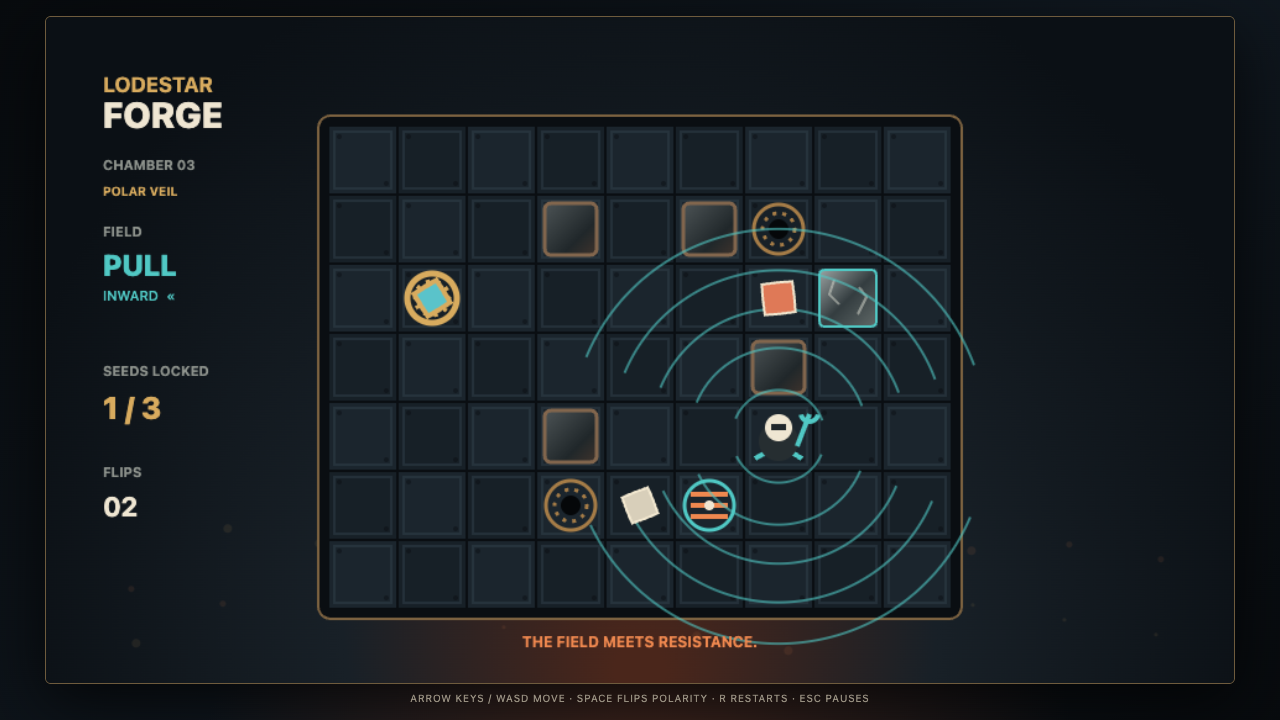
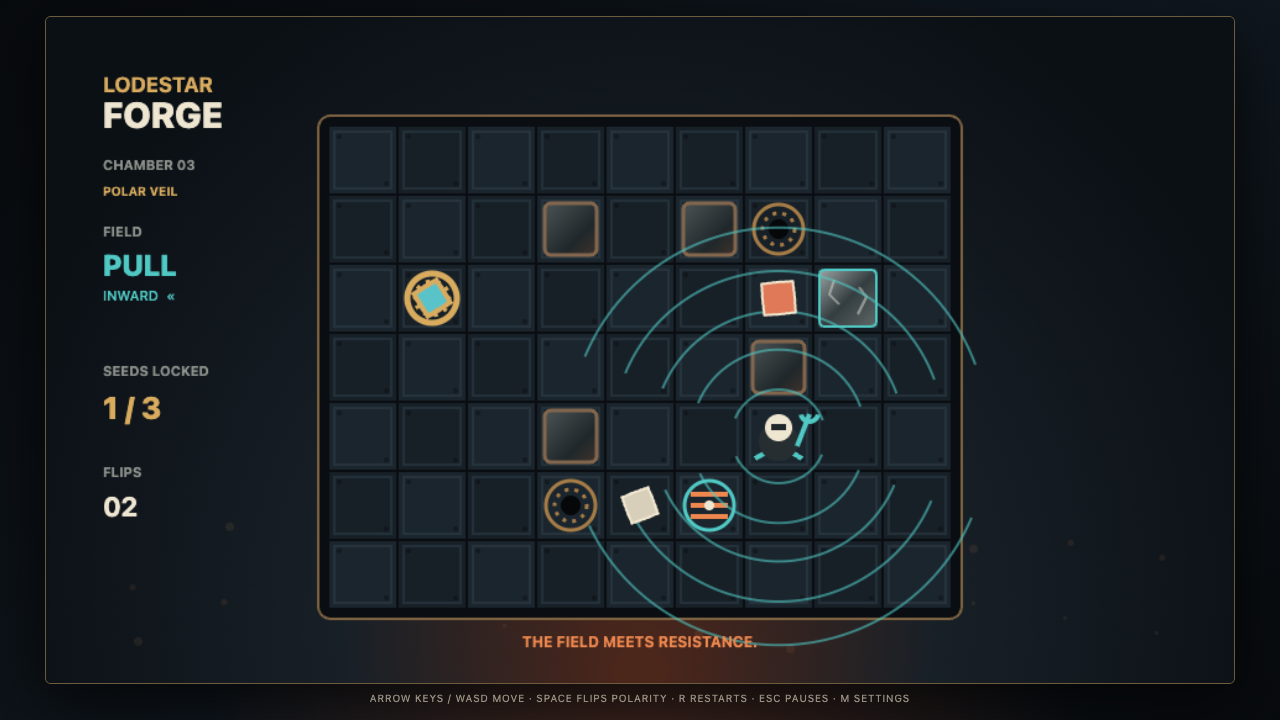
feat(ver12): add polarity-bound fourth chamber
Agent-Loop: codex
Agent-Script: run-codex-loop.sh

diff --git a/ver12/game/src/model.js b/ver12/game/src/model.js
@@ -78,6 +78,27 @@ export const LEVELS = Object.freeze([freezeLevel({
   poles: [
     { x: 5, y: 5, blocksAxis: "horizontal" }
   ]
+}), freezeLevel({
+  name: "Cold Lodestone",
+  lesson: "Marked seeds answer only the matching field.",
+  player: { x: 4, y: 3 },
+  shards: [
+    { id: "cobalt", x: 2, y: 2, respondsTo: "pull" },
+    { id: "ember", x: 6, y: 2 },
+    { id: "pearl", x: 6, y: 4 }
+  ],
+  sockets: [
+    { x: 3, y: 3 },
+    { x: 7, y: 2 },
+    { x: 7, y: 4 }
+  ],
+  walls: [
+    { x: 3, y: 1 }, { x: 5, y: 1 },
+    { x: 2, y: 3 }, { x: 6, y: 3 },
+    { x: 2, y: 5 }, { x: 6, y: 5 }
+  ],
+  blocks: [],
+  poles: []
 })]);
 
 export const LEVEL = LEVELS[0];
@@ -164,10 +185,11 @@ export function flipPolarity(state) {
   const polarity = state.polarity === "pull" ? "push" : "pull";
   const level = levelFor(state);
   const loose = state.shards.filter((shard) => !shard.docked);
+  const responsive = loose.filter((shard) => !shard.respondsTo || shard.respondsTo === polarity);
   const occupied = new Set(state.shards.filter((shard) => shard.docked).map(key));
   const proposals = new Map();
 
-  for (const shard of loose) {
+  for (const shard of responsive) {
     const target = desiredStep(shard, state.player, polarity);
     proposals.set(shard.id, target);
   }
@@ -177,8 +199,8 @@ export function flipPolarity(state) {
     targetCounts.set(key(target), (targetCounts.get(key(target)) ?? 0) + 1);
   }
 
-  const staying = new Set();
-  for (const shard of loose) {
+  const staying = new Set(loose.filter((shard) => !responsive.includes(shard)).map((shard) => shard.id));
+  for (const shard of responsive) {
     const target = proposals.get(shard.id);
     if (isWall(target, level) || isPoleBlocked(shard, target, level) || same(target, state.player) || occupied.has(key(target)) || targetCounts.get(key(target)) > 1) staying.add(shard.id);
   }
@@ -207,13 +229,14 @@ export function flipPolarity(state) {
   });
   const allDocked = shards.every((shard) => shard.docked);
   const moved = loose.length - staying.size;
+  const resistedByPolarity = responsive.length < loose.length;
   return {
     ...state,
     phase: allDocked ? "won" : "playing",
     polarity,
     shards,
     pulses: state.pulses + 1,
-    lastEvent: allDocked ? "The forge is whole." : dockedNow ? `${dockedNow} seed locked.` : moved ? "The seeds answer." : "The field meets resistance.",
+    lastEvent: allDocked ? "The forge is whole." : dockedNow ? `${dockedNow} seed locked.` : moved ? "The seeds answer." : resistedByPolarity ? `The marked seed ignores ${polarity.toUpperCase()}.` : "The field meets resistance.",
     pulseFrom: { ...state.player }
   };
 }
@@ -240,5 +263,7 @@ export function statusText(state) {
   const chamber = state.levelIndex + 1;
   if (state.phase === "paused") return `Paused in chamber ${chamber}. ${docked} of 3 seeds locked. Press Escape to resume.`;
   if (state.phase === "won") return `Chamber ${chamber} complete. 3 of 3 seeds locked in ${state.pulses} polarity flips. Press Enter to ${state.levelIndex < LEVELS.length - 1 ? "continue" : "replay"}.`;
-  return `Chamber ${chamber} active. ${state.polarity} polarity. ${docked} of 3 seeds locked. Arrow keys move. Space flips polarity. R restarts. Escape pauses.`;
+  const marked = state.shards.filter((shard) => shard.respondsTo && !shard.docked);
+  const markedText = marked.length ? ` ${marked.length} loose seed answers only ${marked[0].respondsTo}.` : "";
+  return `Chamber ${chamber} active. ${state.polarity} polarity. ${docked} of 3 seeds locked.${markedText} Arrow keys move. Space flips polarity. R restarts. Escape pauses.`;
 }

diff --git a/ver12/game/src/main.js b/ver12/game/src/main.js
@@ -213,6 +213,19 @@ function drawShard(shard, time) {
   ctx.closePath();
   ctx.fill();
   ctx.stroke();
+  if (shard.respondsTo) {
+    ctx.rotate(-(shard.x * 0.4 + shard.y * 0.7) - (shard.docked ? 0 : Math.sin(time / 650) * 0.08));
+    ctx.strokeStyle = COLORS.ink;
+    ctx.lineWidth = 4;
+    ctx.beginPath();
+    ctx.moveTo(-9, -4);
+    ctx.lineTo(-3, 0);
+    ctx.lineTo(-9, 4);
+    ctx.moveTo(9, -4);
+    ctx.lineTo(3, 0);
+    ctx.lineTo(9, 4);
+    ctx.stroke();
+  }
   ctx.restore();
 }
 
@@ -278,7 +291,7 @@ function overlay(title, body, prompt, color = COLORS.brass) {
   ctx.fillStyle = "#11181eed";
   ctx.fill();
   ctx.stroke();
-  text(title, 480, 196, 35, COLORS.pale, "center", 800);
+  text(title, 480, 196, title.length > 22 ? 29 : 35, COLORS.pale, "center", 800);
   text(body, 480, 252, 15, "#b9b4a7", "center", 500);
   text(state.phase === "title" ? "MOVE TO AIM" : `POLARITY FLIPS  ${state.pulses}`, 480, 295, 12, color, "center", 700);
   text(state.phase === "title" ? "SPACE TO FLIP THE WHOLE FIELD" : "ALL THREE SEEDS ARE LOCKED", 480, 319, 12, color, "center", 700);
@@ -333,11 +346,12 @@ function render(time = 0) {
   if (state.phase === "paused") overlay("FIELD SUSPENDED", "The chamber is holding its shape.", "ESC TO RESUME", COLORS.pull);
   if (state.phase === "won") {
     const final = state.levelIndex === LEVELS.length - 1;
-    const titles = ["THE FIRST MOLD HOLDS", "THE IRON BRAKE HOLDS", "THE POLAR VEIL HOLDS"];
+    const titles = ["THE FIRST MOLD HOLDS", "THE IRON BRAKE HOLDS", "THE POLAR VEIL HOLDS", "THE COLD LODESTONE HOLDS"];
     const bodies = [
       "Three wandering metals, one finished constellation.",
       "A fixed mass gave the field a rhythm.",
-      "Iron and pole held two beats for the final strike."
+      "Iron and pole held two beats for the final strike.",
+      "One cold seed woke only when the field drew inward."
     ];
     overlay(titles[state.levelIndex], bodies[state.levelIndex], final ? "PRESS ENTER TO REFORGE" : `PRESS ENTER FOR CHAMBER ${String(state.levelIndex + 2).padStart(2, "0")}`);
   }

diff --git a/ver12/game/tests/model.test.js b/ver12/game/tests/model.test.js
@@ -116,6 +116,34 @@ test("known polar veil solution completes the third chamber", () => {
   assert.equal(game.pulses, 3);
   assert.equal(game.shards.filter((shard) => shard.docked).length, 3);
   assert.match(statusText(game), /Chamber 3 complete/);
+  assert.match(statusText(game), /continue/);
+});
+
+test("marked seed answers only its matching polarity", () => {
+  let game = startGame(createGame(3));
+  game = flipPolarity(game);
+  assert.deepEqual(game.shards.find((shard) => shard.id === "cobalt"), {
+    id: "cobalt", x: 2, y: 2, respondsTo: "pull", docked: false
+  });
+  assert.equal(game.shards.find((shard) => shard.id === "ember").docked, true);
+  assert.equal(game.shards.find((shard) => shard.id === "pearl").docked, true);
+
+  game = reduce(game, "down");
+  game = reduce(game, "flip");
+  assert.deepEqual(game.shards.find((shard) => shard.id === "cobalt"), {
+    id: "cobalt", x: 3, y: 2, respondsTo: "pull", docked: false
+  });
+  game = reduce(game, "flip");
+  assert.match(game.lastEvent, /ignores PUSH/);
+});
+
+test("known cold lodestone solution completes the fourth chamber", () => {
+  let game = startGame(createGame(3));
+  for (const action of ["flip", "down", "flip", "flip", "left", "flip"]) game = reduce(game, action);
+  assert.equal(game.phase, "won");
+  assert.equal(game.pulses, 4);
+  assert.equal(game.shards.filter((shard) => shard.docked).length, 3);
+  assert.match(statusText(game), /Chamber 4 complete/);
   assert.match(statusText(game), /replay/);
 });
 
@@ -136,7 +164,7 @@ test("preferences round-trip and clamp values", () => {
     setItem: (key, value) => values.set(key, value)
   };
   const saved = savePreferences(storage, { unlockedLevel: 99, volume: 0.34, reducedMotion: true }, LEVELS.length);
-  assert.deepEqual(saved, { unlockedLevel: 2, volume: 0.3, reducedMotion: true });
+  assert.deepEqual(saved, { unlockedLevel: 3, volume: 0.3, reducedMotion: true });
   assert.deepEqual(loadPreferences(storage, LEVELS.length), saved);
 });
 

diff --git a/ver12/game/e2e/lodestar-forge.spec.js b/ver12/game/e2e/lodestar-forge.spec.js
@@ -91,6 +91,31 @@ test("axial pole holds one seed and the third chamber is completable", async ({ 
   await page.screenshot({ path: evidence("m2-three-chambers-won.png") });
 });
 
+test("pull-bound seed waits through push and the fourth chamber is completable", async ({ page }) => {
+  await page.goto("/");
+  const canvas = page.locator("canvas");
+  await page.keyboard.press("Enter");
+  for (const key of [
+    "Space", "ArrowLeft", "ArrowLeft", "ArrowDown", "ArrowDown", "Space", "Enter",
+    "ArrowRight", "Space", "ArrowRight", "Space", "Space", "Enter",
+    "ArrowRight", "Space", "ArrowDown", "ArrowRight", "Space", "Space", "Enter"
+  ]) await page.keyboard.press(key);
+  await expect(canvas).toHaveAttribute("data-chamber", "4");
+
+  await page.keyboard.press("Space");
+  await expect(canvas).toHaveAttribute("data-docked", "2");
+  await expect(canvas).toHaveAttribute("aria-label", /1 loose seed answers only pull/);
+  await page.screenshot({ path: evidence("m3-cold-lodestone.png") });
+
+  for (const key of ["ArrowDown", "Space", "Space", "ArrowLeft", "Space"]) {
+    await page.keyboard.press(key);
+  }
+  await expect(canvas).toHaveAttribute("data-phase", "won");
+  await expect(canvas).toHaveAttribute("data-docked", "3");
+  await expect(canvas).toHaveAttribute("aria-label", /Chamber 4 complete.*4 polarity flips/);
+  await page.screenshot({ path: evidence("m3-four-chambers-won.png") });
+});
+
 test("settings persist and corrupt saves recover safely", async ({ page }) => {
   await page.goto("/");
   const canvas = page.locator("canvas");

diff --git a/ver12/docs/acceptance-matrix.md b/ver12/docs/acceptance-matrix.md
@@ -6,15 +6,16 @@
 | --- | --- | --- | --- | --- | --- |
 | CORE-01 | 移動、極性反転、3種同時操作、衝突、収容 | M1 | `src/model.js`、`m1-first-field.png` | `npm run verify` | 合格 |
 | CORE-02 | 失敗後の室再挑戦とポーズ復帰 | M1 | `reduce`、E2E test 1 | `npm run verify` | 合格 |
-| PROG-01 | 複数室のデータ定義と通常操作による進行 | M2 | `LEVELS`、E2E tests 2–4、`m2-three-chambers-won.png` | `npm run verify` | 3室合格 |
+| PROG-01 | 複数室のデータ定義と通常操作による進行 | M2 | `LEVELS`、E2E tests 2–5、`m3-four-chambers-won.png` | `npm run verify` | 4室合格 |
 | MECH-02 | 固定鉄塊で不要な種だけを止める | M2 | `LEVELS[1].blocks`、`m2-iron-brake.png` | `npm run test -- --test-name-pattern='iron'` | 合格 |
 | MECH-03 | 軸極が指定軸の種だけを止め、鍛冶師を通す | M2 | `LEVELS[2].poles`、`m2-polar-veil.png` | `npm run test -- --test-name-pattern='polar veil'` | 合格 |
-| PROD-01 | 3室、段階導入、設定、進行保存 | M2 | `LEVELS`、`preferences.js`、E2E tests 2–6、`m2-settings.png` | `npm run verify` | 合格 |
-| CONT-01 | 6室、4段階以上の規則発展、最終炉と終演 | M3 | 未実装 | 通しE2Eを追加予定 | 未達 |
+| MECH-04 | 極性種が対応する磁場だけに反応する | M3 | `LEVELS[3].shards[].respondsTo`、`m3-cold-lodestone.png` | `npm run test -- --test-name-pattern='marked seed|cold lodestone'` | 合格 |
+| PROD-01 | 3室、段階導入、設定、進行保存 | M2 | `LEVELS`、`preferences.js`、E2E tests 2–4・6–7、`m2-settings.png` | `npm run verify` | 合格 |
+| CONT-01 | 6室、4段階以上の規則発展、最終炉と終演 | M3 | 4室と3段階の規則発展、E2E test 5 | 通しE2Eを追加予定 | 一部合格 |
 | DEPTH-01 | 複数の有効手順、巻き戻し、再挑戦価値 | M4 | 未実装 | 方針別自動通しを追加予定 | 未達 |
 | ART-01 | 全室の背景、種、UI、磁場、効果音が完成方針で統一 | M4 | M1–M2 Canvas描画と合成音 | 全主要画面目視・音量監査予定 | 一部合格 |
 | ACCESS-01 | キーボード、動き軽減、音量、動的名称、2 viewport | M2–M4 | キーボード設定UI、静止描画、音量係数、動的名称、`m2-settings.png`。2 viewportはM4 | `npm run verify` | 一部合格 |
-| QA-01 | 単体、統合、通し、性能、保存破損、配布物監査 | M4–M5 | 単体13/13、E2E 6/6、保存破損復帰、build合格 | `npm run verify`、性能・配布物はM4予定 | 一部合格 |
+| QA-01 | 単体、統合、通し、性能、保存破損、配布物監査 | M4–M5 | 単体15/15、E2E 7/7、保存破損復帰、build合格 | `npm run verify`、性能・配布物はM4予定 | 一部合格 |
 | RELEASE-01 | 配布物hash、公開URL、旧版保持、rollback | M5 | 未実施 | 公開候補で記録予定 | 未達 |
 | CRIT-01 | 2回以上の独立批評と改善 | M5 | 未実施 | baseline・非退行比較予定 | 未達 |
 | RETRO-01 | 基準比較、M6振り返り、ルート方針評価 | M6 | 未実施 | `05-major-retrospective.md` | 未達 |

diff --git a/ver12/docs/status.md b/ver12/docs/status.md
@@ -5,7 +5,7 @@
 ## 現在状態
 
 - 現在版: v12.0 (`ver12/`)
-- 段階: M0〜M2完了、M3着手前。3室と製品基盤を通して検証済み
+- 段階: M0〜M2完了、M3進行中。4/6室と製品基盤を通して検証済み
 - 過去版変更: v1〜v11を保持
 
 ## 完成条件
@@ -33,13 +33,16 @@
 - `M`でいつでも開ける設定画面を追加し、音量を0〜100%で変更でき、動き軽減時は火花・脈動・磁場フラッシュを静止させるようにした。設定状態は動的accessible nameにも反映する。
 - localStorageへ音量、動き軽減、到達済みの最も先の室を保存し、再読込時はその室のタイトルから再開する。JSON破損、型不正、範囲外、storage例外は安全な既定値へ戻す。
 - 単体13/13、構文検査、production build、Chrome E2E 6/6に合格した。`m2-settings.png`を目視し、設定値、選択行、操作案内に切れ・重なり・判別不能がないことを確認した。M2を完了する。
+- 第4室「COLD LODESTONE」に、`PULL`だけに反応し`PUSH`では静止する極性種を追加した。反応しない種も同時衝突解決では静止障害として扱う。
+- 最初のPUSHで通常種2個を収容し、PULLで極性種を進め、反応しないPUSHを立ち位置変更の休拍にして次のPULLで収容する4反転解を実装した。
+- 単体15/15、構文検査、production build、Chrome E2E 7/7に合格した。`m3-cold-lodestone.png`と`m3-four-chambers-won.png`を1280×720で比較目視し、内向き印、磁場、収容数、完成見出しに切れ・重なり・判別不能がないことを確認した。
 
 ## 未解決課題
 
 - 第1室は導入として2反転で解けるため、単体での再訪性はまだ低い。
 - 手戻しは未実装。
-- M3の極性を持つ種、第4〜第6室、最終炉、終演は未実装。
+- PUSH限定種、既存障害物との組み合わせ、第5〜第6室、最終炉、終演は未実装。
 
 ## 次の最優先作業
 
-第4室を設計・実装し、PULLまたはPUSHの一方にだけ反応する極性種を単独導入する。既存3室の規則と保存を非退行条件にする。
+第5室を設計・実装し、PULL限定種と既存の鉄塊・軸極を組み合わせる。単独導入済みの第4室より複数種の干渉を強め、既存4室と保存を非退行条件にする。

diff --git a/ver12/README.md b/ver12/README.md
@@ -7,8 +7,8 @@
 - M0 白紙企画比較・独立性確認: 完了
 - M1 中核縦切り: 完了。1室、移動、磁極反転、3種、受け口、再挑戦を実装・検証済み
 - M2 製品基盤: 完了。3室、段階導入、音量・動き軽減設定、到達室保存、破損保存復帰を実装済み
-- M3 本編制作: 次の作業は極性を持つ種を導入する第4室
-- 単体13/13、構文検査、production build、Chrome E2E 6/6、依存監査に合格
+- M3 本編制作: 4/6室。第4室でPULLだけに反応する極性種を導入済み
+- 単体15/15、構文検査、production build、Chrome E2E 7/7、依存監査に合格
 
 ## 起動
 
@@ -18,7 +18,7 @@ npm install
 npm run dev
 ```
 
-Enterで開始する。矢印キーまたはWASDで鍛冶師を移動し、Spaceで磁極を反転する。青い`PULL`では金属種が鍛冶師へ、橙の`PUSH`では鍛冶師から離れる方向へ一枡進む。三つを金色の受け口へ収めれば次の室へ進む。第2室の銀色の固定鉄塊は鍛冶師と種を止める。第3室の縞極は示された軸から入る種だけを止め、鍛冶師は通れる。Rで現在の室をやり直し、Escapeでポーズする。
+Enterで開始する。矢印キーまたはWASDで鍛冶師を移動し、Spaceで磁極を反転する。青い`PULL`では金属種が鍛冶師へ、橙の`PUSH`では鍛冶師から離れる方向へ一枡進む。三つを金色の受け口へ収めれば次の室へ進む。第2室の銀色の固定鉄塊は鍛冶師と種を止める。第3室の縞極は示された軸から入る種だけを止め、鍛冶師は通れる。第4室の内向き印を持つ種はPULLだけに反応する。Rで現在の室をやり直し、Escapeでポーズする。
 
 `M`で設定を開き、上下で音量／動き軽減を選び、左右で変更する。設定と到達済みの最も先の室は自動保存される。`npm run verify`で単体テスト、構文検査、production build、Chrome E2Eをまとめて実行する。
 

diff --git a/ver12/docs/log.md b/ver12/docs/log.md
@@ -54,3 +54,12 @@
 - `npm run verify`相当で単体13/13、構文検査、production build、Chrome E2E 6/6に合格した。sandbox内の初回E2Eはlocalhost bindの`EPERM`で起動できなかったため、許可済みのローカルサーバー実行で再検証した。
 - `m2-settings.png`を1280×720で目視し、音量、動き軽減、選択行、操作案内に切れ・重なり・判別不能がないことを確認した。
 - M2を完了する。次は第4室でPULLまたはPUSHの一方にだけ反応する極性種を単独導入し、M3の規則発展を始める。
+
+## 2026-11-06 — M3 第4室「COLD LODESTONE」
+
+- 実行元: Codex / `run-codex-loop.sh` / run 4 / 開始 `2026-11-06T20:49:19+0900`。
+- `PULL`だけに反応する極性種をモデル、室データ、Canvas描画、動的accessible nameへ追加した。内向きシェブロンを色に依存しない識別印とし、反応しない磁場では静止障害として同時衝突解決へ含める。
+- 第4室は最初のPUSHで通常種2個だけを収容し、PULLで極性種を進め、次のPUSHを立ち位置変更の休拍にして4回目の反転で収容する。
+- `npm run verify`で単体15/15、構文検査、production build、Chrome E2E 7/7に合格した。絞り込みE2Eのsandbox内再実行はlocalhost bindの`EPERM`になったため、許可済みローカルサーバーで合格を再確認した。
+- `m3-cold-lodestone.png`と`m3-four-chambers-won.png`を1280×720で比較目視した。初回画像で極性印と長い完成見出しが弱かったため、暗色シェブロンと可変見出しサイズへ修正し、再採取後に切れ・重なり・判別不能がないことを確認した。
+- M3は4/6室で継続する。次は第5室で極性種と鉄塊・軸極を組み合わせ、複数種の干渉を深める。

diff --git a/ver12/docs/01-game-design.md b/ver12/docs/01-game-design.md
@@ -9,6 +9,7 @@
 - 種が空いている受け口へ入ると固定され、それ以降は動かない。
 - 銀色の固定鉄塊は鍛冶師と種の両方を止める。磁場は鉄塊を動かさない。
 - 青緑環と橙縞の固定極は、縞と平行な軸からそのセルへ入る種だけを止める。鍛冶師と直交方向から入る種は通れる。
+- 内向きシェブロンを持つ極性種は`PULL`だけに反応し、`PUSH`ではその場に留まる。停止した種は他の種の移動を通常どおり塞ぐ。
 - 3個すべてを収容すると勝利。Rで初期状態へ戻る。Escapeでポーズする。
 
 ## M1の学習順
@@ -31,6 +32,13 @@
 2. 最初のPUSHで青い種を収容し、橙の種を鉄塊で止める。
 3. 鍛冶師が壁を回り込んだPULLでは、橙の種を壁、白い種を横軸極で同時に待たせる。
 4. 次のPUSHで待たせた2種を異なる受け口へ同時収容し、全体移動と選択的停止を組み合わせる。
+
+## M3第4室の学習順
+
+1. 第3室から進むと、内向きシェブロンを持つ青い極性種を示す。
+2. 最初のPUSHで通常種2個だけが収容され、極性種が動かないことを盤面とaccessible nameで返す。
+3. PULLで極性種を動かした後、反応しないPUSHを立ち位置調整の休拍として使う。
+4. 次のPULLで中央の受け口へ収容する4反転解とし、交互反転を制約から計画資源へ発展させる。
 
 ## 面白さの仮説
 

diff --git a/ver12/docs/03-technical-design.md b/ver12/docs/03-technical-design.md
@@ -2,9 +2,9 @@
 
 - Vite + vanilla ES modules + Canvas 2D。外部runtime依存を持たない。
 - `src/model.js`はDOMから独立した純粋な状態遷移とする。
-- 室は`LEVELS`の鍛冶師、種、受け口、壁、固定鉄塊、軸極データとして定義し、状態は`levelIndex`で現在室を参照する。
+- 室は`LEVELS`の鍛冶師、種、受け口、壁、固定鉄塊、軸極データとして定義し、種の任意`respondsTo`で反応する磁場を限定する。状態は`levelIndex`で現在室を参照する。
 - 盤面更新は入力単位で決定的。描画補間だけrequestAnimationFrameを使う。
-- 金属種の移動候補を先に全件計算し、重複先、壁、軸極、静止種との競合を除いて同時適用する。軸極は移動元と移動先から進入軸を判定する。
+- 現在磁場へ反応する金属種の移動候補を先に全件計算し、重複先、壁、軸極、静止種との競合を除いて同時適用する。反応しない極性種は静止種として衝突解決へ含める。軸極は移動元と移動先から進入軸を判定する。
 - Node testで規則、衝突、収容、室進行、各室の既知解を固定する。
 - Playwrightは実キー入力、タイトル、反転、再挑戦、既知解、室進行、勝利、ポーズをChromeで検証する。
 - Canvasへ動的なaccessible nameを設定し、状態、極性、収容数、操作を伝える。

diff --git a/ver12/docs/decisions.md b/ver12/docs/decisions.md
@@ -5,3 +5,4 @@
 | 2026-11-06 | 全種を一斉に押す／引くターン制磁力パズル | 影折りパズル、雨水配分パズル | 一入力の判断密度、決定的検証、視聴覚フィードバックを両立できる | M1の実操作と既知解で判断・失敗・上達を確認 |
 | 2026-11-06 | 室ごとのデータ定義と選択的停止障害物 | 個別操作の追加、盤面拡大 | 中核の全体操作を保ったまま「何を止めるか」を発展させる | 3室を2・3・3反転で通し、鉄塊と軸極の差を画面確認 |
 | 2026-11-06 | 到達室の初期状態と設定だけを保存 | 毎手の盤面保存、室選択画面 | 決定性と安全な復帰を保ち、途中保存の破損面を増やさない | 再読込で第2室へ復帰し、破損JSONは第1室と既定設定へ復帰 |
+| 2026-11-06 | 第4室の極性種はPULLだけに反応し、PUSHを休拍にする | PUSH限定種、同室で両極性種を導入 | 一つの新規則を単独で学ばせ、交互反転中の立ち位置変更を判断へ変えられる | 4反転の既知解、単体15/15、実キーE2Eで停止と収容を確認 |

diff --git a/ver12/docs/asset-inventory.md b/ver12/docs/asset-inventory.md
@@ -4,8 +4,8 @@
 
 | 区分 | 用途 | 制作方法・権利 | 完成状態 | ゲーム内確認先 |
 | --- | --- | --- | --- | --- |
-| 背景 | 炉床、鋳型、火花、鉄塊、軸極 | Canvas 2D手続き描画、自作 | M2完成 | 全3室、`m2-polar-veil.png` |
-| キャラクター | 鍛冶師、3種の金属種 | Canvas 2D手続き描画、自作 | M2完成 | `m1-first-field.png` |
+| 背景 | 炉床、鋳型、火花、鉄塊、軸極 | Canvas 2D手続き描画、自作 | M3継続 | 全4室、`m3-cold-lodestone.png` |
+| キャラクター | 鍛冶師、3種の金属種、極性シェブロン | Canvas 2D手続き描画、自作 | M3継続 | `m1-first-field.png`、`m3-cold-lodestone.png` |
 | UI | HUD、タイトル、ポーズ、完成、設定 | Canvas 2D描画とCSS、自作 | M2完成 | `m1-title.png`、`m2-settings.png` |
 | エフェクト | 磁力線、脈動、収容強調 | Canvas 2D手続き描画、自作 | M2完成、動き軽減対応 | `m1-first-field.png` |
 | 効果音 | 移動、反転、収容、完成 | Web Audio oscillator合成、自作 | M2完成、音量対応 | 実キーE2E経路で発音 |
